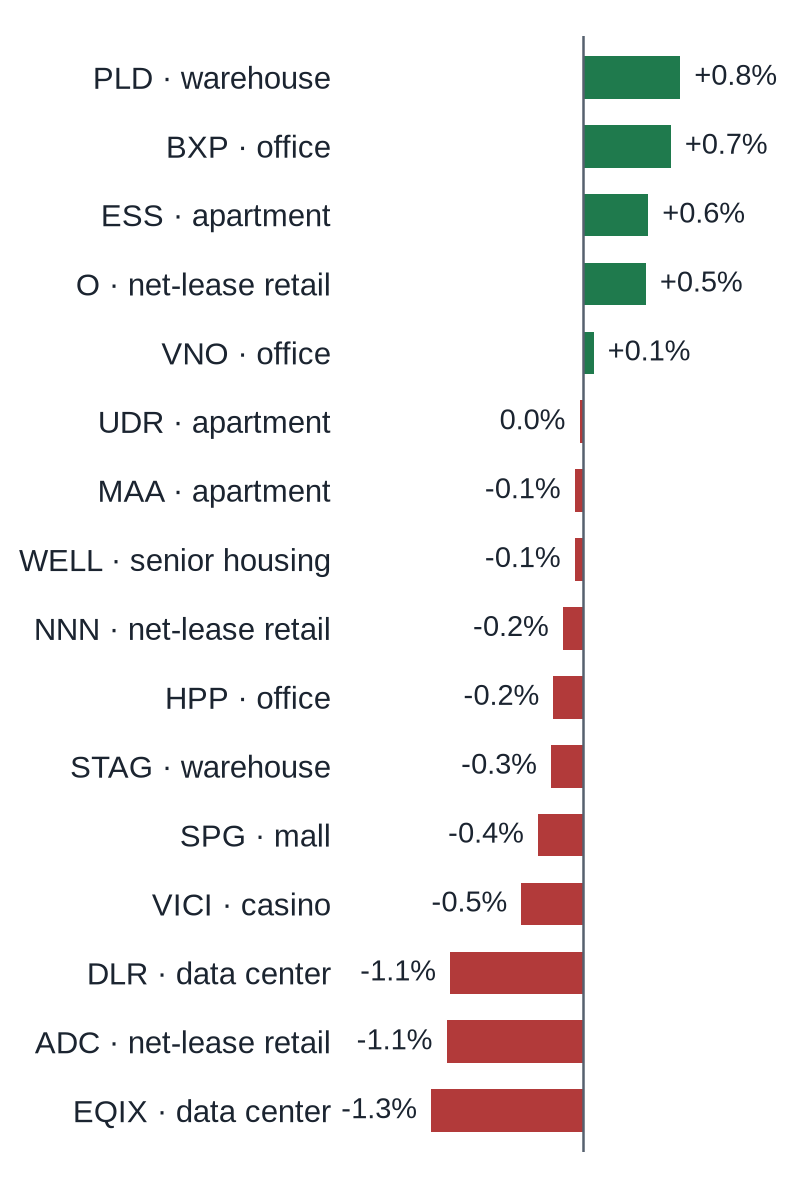
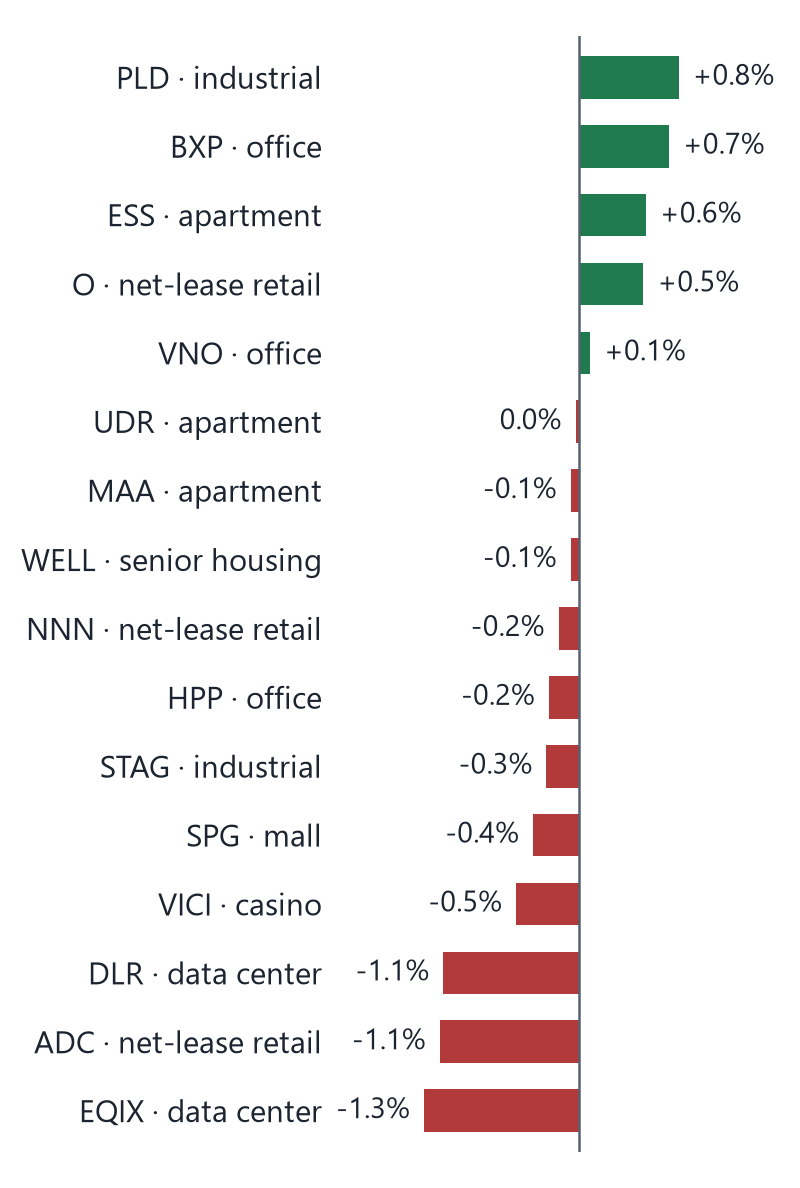
Label industrial REITs (PLD, STAG) as industrial, not warehouse
Also fixes the 2026-10-14 issue text and redraws its REIT scoreboard.

diff --git a/tests/test_ux_charts.py b/tests/test_ux_charts.py
@@ -100,7 +100,7 @@ def test_factsheet_reit_moves_skip_vnq_and_stay_out_of_the_model_sheet(tmp_path)
     sheet = build_factsheet(conn, D, None, quotes, [], None)
     assert sheet["reit_moves"] == [
         {"ticker": "NNN", "name": "NNN REIT", "type": "net-lease retail", "chg_pct": 1.94},
-        {"ticker": "PLD", "name": "Prologis", "type": "warehouse", "chg_pct": -0.42}]
+        {"ticker": "PLD", "name": "Prologis", "type": "industrial", "chg_pct": -0.42}]
     assert "reit_moves" not in _sheet_for_model(sheet)
     assert reit_moves([], {}) == []
 

diff --git a/src/factsheet.py b/src/factsheet.py
@@ -516,7 +516,7 @@ def _market_values(quotes: list[ReitQuote]) -> dict:
 def reit_moves(quotes: list[ReitQuote], info: dict) -> list[dict]:
     """Every tracked REIT's daily move for the REIT scoreboard chart, best first.
     VNQ (the fund) is left out; tickers whose quote failed are simply absent. `type` is
-    the short property type (`group` in reit_info), e.g. "warehouse"."""
+    the short property type (`group` in reit_info), e.g. "industrial"."""
     rows = []
     for q in quotes:
         if q.ticker == VNQ_TICKER:

diff --git a/src/chart.py b/src/chart.py
@@ -186,7 +186,7 @@ def _moves(moves: list[dict] | None) -> list[dict]:
 
 
 def reit_label(m: dict) -> str:
-    """"PLD · warehouse": ticker, a middle dot, the short property type."""
+    """"PLD · industrial": ticker, a middle dot, the short property type."""
     kind = (m.get("type") or "").strip()
     return f"{m['ticker']} · {kind}" if kind else m["ticker"]
 

diff --git a/issues/2026-10-14.md b/issues/2026-10-14.md
@@ -33,7 +33,7 @@
 
 **What it means:** Rates barely moved, so borrowing costs sit about where they were. Today's levels still make financing pricier than during the cheap-money years. That steady backdrop at least lets buyers and lenders price deals with some confidence.
 
-**Why Prologis (PLD) moved:** No company-specific news today; it may have moved with other warehouse REITs.
+**Why Prologis (PLD) moved:** No company-specific news today; it may have moved with other industrial REITs.
 
 **Why Equinix (EQIX) moved:** No company-specific news today; it may have moved with other data center REITs.
 
